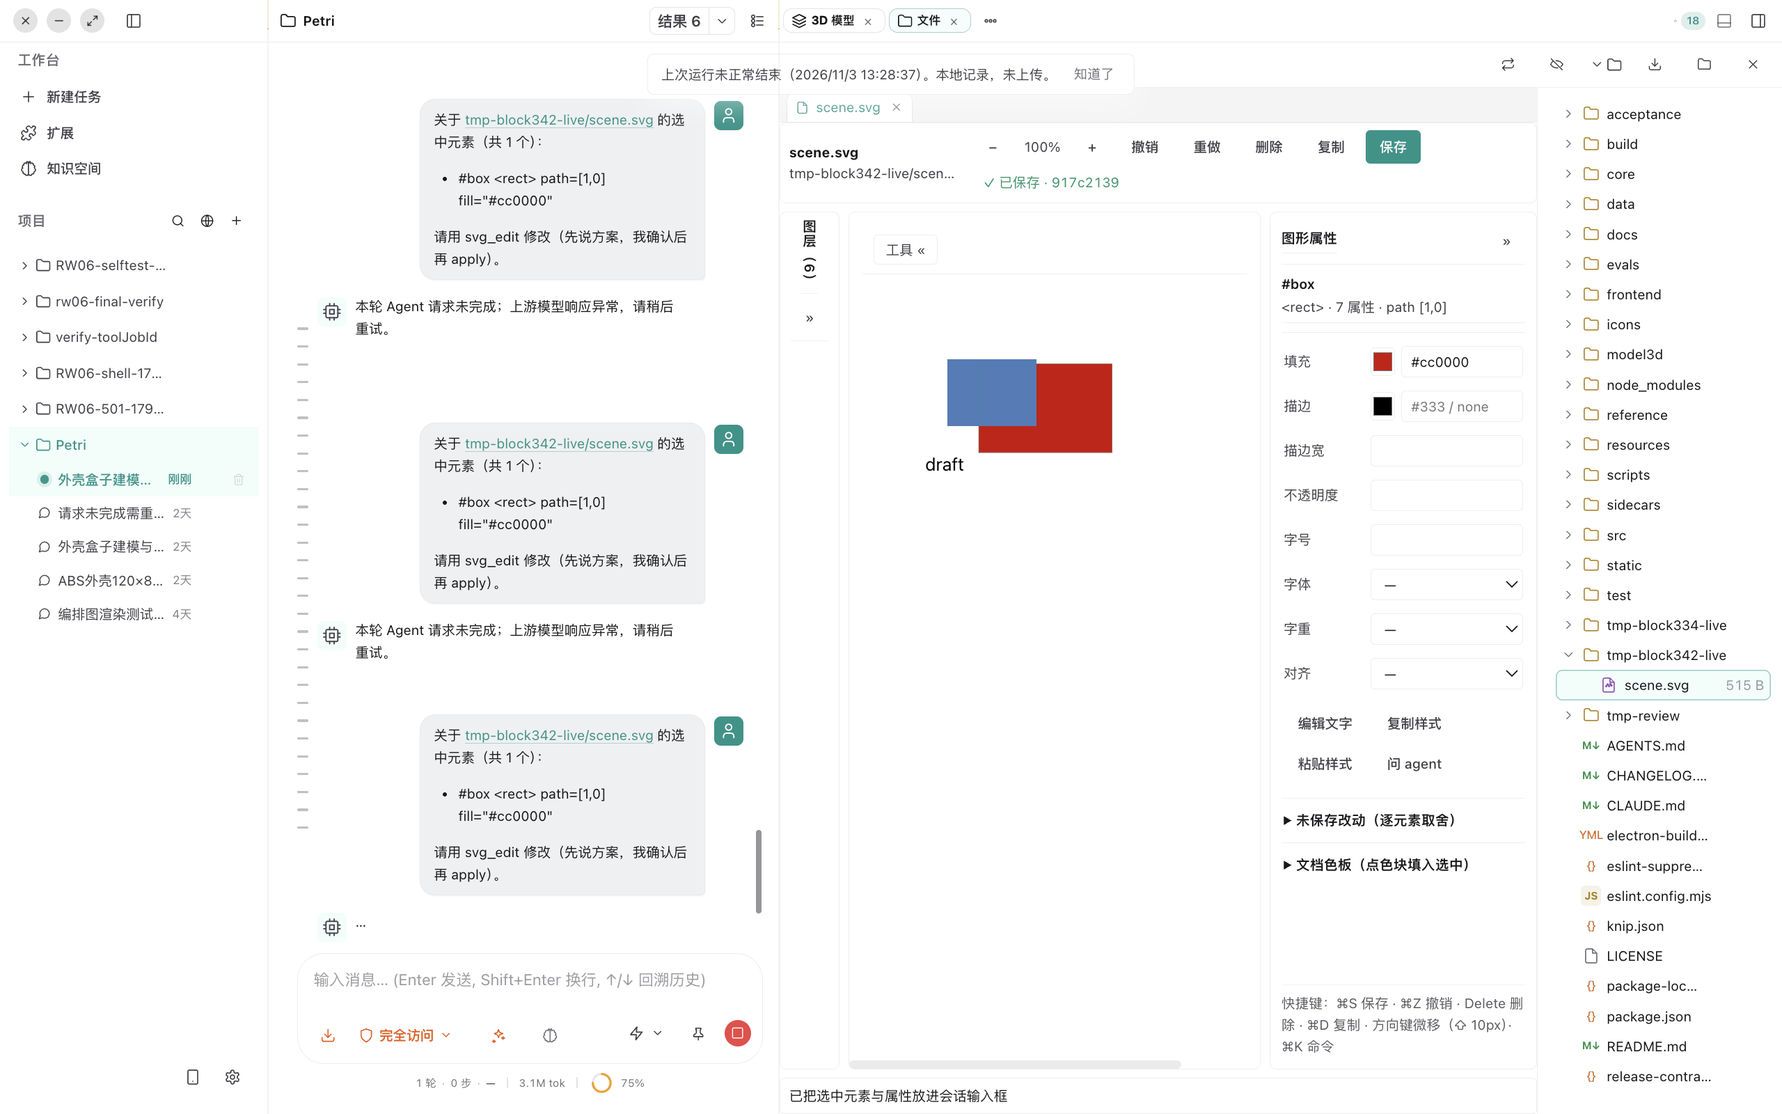
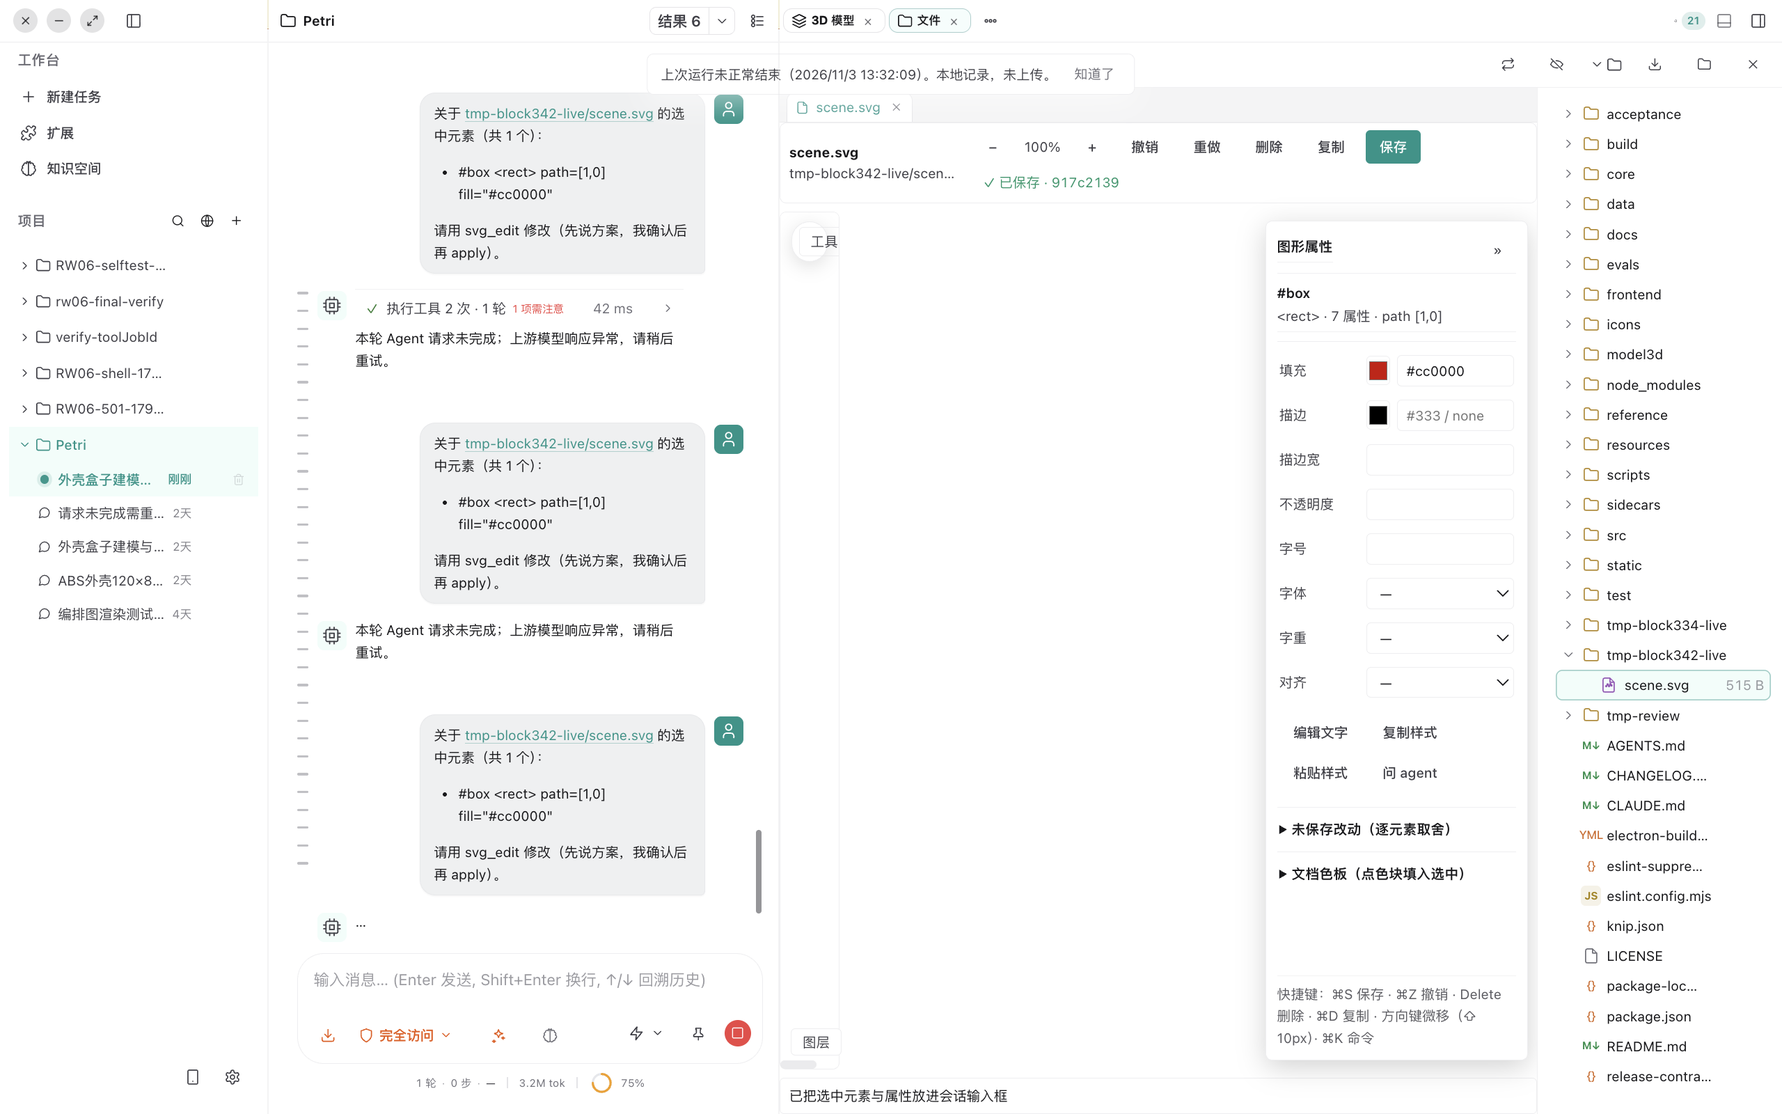
style(block-342): 抽屉式面板 + 按需展示（截图反馈：竖排窄条占位/tooltip 干扰）
面板零占位：画布独占整宽；面板改 absolute 覆盖式抽屉（236px/圆角/阴影，收起 display:none），不再挤压画布

触发改画布角落文字胶囊（左下图层/右上属性/左上工具）+ 工具条改浮条不占行高（nowrap 防竖排）

脱敏提示移出折叠区常驻；视图清空 <title> 文本抑制原生 tooltip（真值不动）

实机 28/28 + 截图过目两轮；抓真 flow 样本自删竞态（ENOENT）→ 留盘 + impact-map 忽略；UI-667 verified

diff --git a/frontend/src/components/svg-editor/SvgEditorViewer.module.css b/frontend/src/components/svg-editor/SvgEditorViewer.module.css
@@ -770,3 +770,106 @@
   min-width: 120px;
   justify-self: stretch;
 }
+
+/* ============================================================
+   抽屉式面板（用户截图反馈：竖排窄条占位且难读）
+   —— 收起态零占位（画布独占整宽），展开=覆盖式抽屉（不挤压画布），
+      触发/收起用画布角落的小胶囊按钮，无学习成本：点「图层/属性」就有，再点就收。
+   ============================================================ */
+.body {
+  position: relative;
+  grid-template-columns: minmax(0, 1fr);
+  gap: 0;
+}
+
+.layers,
+.inspector {
+  position: absolute;
+  top: 8px;
+  bottom: 8px;
+  width: 236px;
+  z-index: 5;
+  background: var(--petri-bg-surface);
+  border-radius: var(--petri-radius-md);
+  box-shadow: 0 6px 24px rgb(0 0 0 / 18%);
+}
+
+.layers {
+  left: 8px;
+}
+
+.inspector {
+  right: 8px;
+}
+
+/* 收起即完全退场（不占列宽、不留竖排文字） */
+.layers[data-open='0'],
+.inspector[data-open='0'] {
+  display: none;
+}
+
+.railToggle {
+  position: absolute;
+  top: 12px;
+  z-index: 6;
+  padding: 3px 10px;
+  border: 1px solid var(--petri-border-card);
+  border-radius: var(--petri-radius-pill);
+  background: var(--petri-bg-surface);
+  color: var(--petri-text-secondary);
+  font-size: var(--petri-font-size-body);
+  cursor: pointer;
+  transition: background-color var(--petri-duration-fast) var(--petri-ease-standard),
+    color var(--petri-duration-fast) var(--petri-ease-standard),
+    border-color var(--petri-duration-fast) var(--petri-ease-standard);
+}
+
+.railToggle:hover {
+  background: var(--petri-hover);
+  color: var(--petri-text);
+  border-color: var(--petri-accent-border);
+}
+
+/* 工具条改为画布内浮条：默认只露「工具 ▾」，点开就地展开一排（不再常驻一行高度） */
+.toolbar {
+  position: absolute;
+  top: 8px;
+  left: 50%;
+  transform: translateX(-50%);
+  z-index: 6;
+  border: 1px solid var(--petri-border-card);
+  border-radius: var(--petri-radius-pill);
+  background: var(--petri-bg-surface);
+  padding: 4px 6px;
+  gap: 4px;
+  box-shadow: 0 4px 16px rgb(0 0 0 / 12%);
+}
+
+.stage {
+  position: relative;
+  padding: 44px 12px 12px;
+}
+
+/* 定位修正（截图过目）：工具条不换行、贴左上；图层胶囊贴左下，属性胶囊贴右上 */
+.toolbar {
+  left: 10px;
+  top: 8px;
+  transform: none;
+  width: max-content;
+  max-width: calc(100% - 20px);
+  white-space: nowrap;
+  flex-wrap: nowrap;
+}
+
+.stage {
+  padding: 56px 12px 12px;
+}
+
+.railToggle[data-action='expand-layers'] {
+  top: auto;
+  bottom: 12px;
+}
+
+.railToggle[data-action='expand-inspector'] {
+  top: 12px;
+}

diff --git a/frontend/src/components/svg-editor/SvgEditorViewer.tsx b/frontend/src/components/svg-editor/SvgEditorViewer.tsx
@@ -701,6 +701,16 @@ export function SvgEditorViewer({ projectId, filePath, name, active = true }: Sv
 
       {state.status === 'ready' ? (
         <div className={styles.body} data-layers={layersOpen ? '1' : '0'} data-inspector={inspectorOpen ? '1' : '0'}>
+          {!layersOpen ? (
+            <button type="button" className={styles.railToggle} data-action="expand-layers" style={{ left: 10 }} title="展开图层">
+              图层
+            </button>
+          ) : null}
+          {!inspectorOpen ? (
+            <button type="button" className={styles.railToggle} data-action="expand-inspector" style={{ right: 10 }} title="展开图形属性">
+              属性
+            </button>
+          ) : null}
           <aside className={styles.layers} data-testid="svg-editor-layers" data-open={layersOpen ? '1' : '0'}>
             <div className={styles.layersHead}>
               <span className={styles.panelTitle}>图层（{state.inspect.total}）</span>
@@ -733,14 +743,15 @@ export function SvgEditorViewer({ projectId, filePath, name, active = true }: Sv
                 );
               })}
             </ul>
-            {layersOpen && state.removed > 0 ? (
+
+          </aside>
+
+          <div className={styles.stage} onWheel={handleWheel}>
+            {state.removed > 0 ? (
               <div className={styles.warn} data-testid="svg-editor-sanitized">
                 视图已脱敏 {state.removed} 处（script/事件属性/危险链接）；真值未被删除。
               </div>
             ) : null}
-          </aside>
-
-          <div className={styles.stage} onWheel={handleWheel}>
             <div className={styles.toolbar} data-testid="svg-editor-toolbar">
               <button
                 type="button"

diff --git a/frontend/src/components/svg-editor/svgEditorModel.ts b/frontend/src/components/svg-editor/svgEditorModel.ts
@@ -177,6 +177,8 @@ export function sanitizeSvgForView(text: string): SanitizedView {
   if (parserError) return { ok: false, error: 'svg_parse_error', removed: 0 };
 
   let removed = 0;
+  // 视图里清空 <title> 文本：否则 hover 会弹原生 tooltip 盖住画布（真值不动，op 不涉及 title）
+  root.querySelectorAll('title').forEach((el) => { el.textContent = ''; });
   const kill: Element[] = [];
   // root 自身也要清（onload 常挂在 <svg> 上）
   const all: Element[] = [root, ...Array.from(root.querySelectorAll('*'))];

diff --git a/docs/AUDIT-LOG.md b/docs/AUDIT-LOG.md
@@ -1,4 +1,5 @@
 # 审计广播台 (AUDIT-LOG)
+最后更新：2026-11-03（✅ **BLOCK-342 抽屉式面板 + 按需展示（截图反馈批；实机 28/28）**：面板零占位（画布独占整宽）+ 覆盖式抽屉（236px/圆角/阴影，收起 display:none）；触发=画布角落文字胶囊（左下图层/右上属性/左上工具），点开即用再点即收；工具条改浮条不占行高；脱敏提示移出折叠区常驻；视图清空 `<title>` 抑制原生 tooltip（真值不动）。抓真一处 flow 竞态（样本自删致连续两跑 ENOENT→留盘+impact-map 忽略）。UI-667 verified。G0 开发期常态 · 不外推 packaged/Provider/GA。）
 最后更新：2026-11-03（✅ **BLOCK-342 产品级视觉精修（编辑器面板；theme 17/17 + 实机 28/28）**：字号统一 body（小字号棘轮禁 xs/sm），层级靠字重 600 + 字距 + 文字色三级；间距 10/8/6 节奏 + divider；属性行定宽标签列、控件等高并强制拉伸；圆角 radius 阶梯；hover `--petri-hover` / 激活 accent 底+边；过渡统一 duration-fast + ease-standard（motion token，reduced-motion 兜底）；sha 等宽数字、path mono、画布留白 12、收起列宽 54。截图过目后补两处（控件等宽、画布留白）。UI-666 verified。G0 开发期常态 · 不外推 packaged/Provider/GA。）
 最后更新：2026-11-03（✅ **BLOCK-342 折叠默认态修正（用户第二轮裁决）+ 图层栏可折叠（实机 28/28）**：默认**全收起**——工具栏只剩「工具 «」、图层栏与图形属性各收成 46px 竖排标题条（writing-mode）、色板/改动 details 收起，打开文件即最大画布；点 `»` 恢复 200/240px，**选中元素时属性栏自动展开**；grid 列宽按展开态组合切换。实机 `V2d` 断言 layers/inspector/toolGroup 三处 `data-open=0` + 展开按钮在场，28/28 allPass；契约 26/26 + lint 0 error。UI-665 已更新。G0 开发期常态 · 不外推 packaged/Provider/GA。）
 最后更新：2026-11-03（✅ **BLOCK-342 交互设计批：分区折叠 + 预览/确认状态区分（实机 28/28）**：工具栏「工具 »」可收；「图形属性」默认展开、右栏 `»` 整栏收起（画布变宽）；「文档色板」「未保存改动」默认折叠（details）。状态条三态=黄「● 未保存 N 项改动 · 实时预览中，⌘S 确认写盘」/灰「保存中…」/绿「✓ 已保存 · sha」——实时预览只改活视图，保存才提交（before-hash 冲突检测），避免未确认堆积。契约 26/26 + theme 17/17 + 实机 28/28（V2d/V9b3/V9d）；UI-665 verified。G0 开发期常态 · 不外推 packaged/Provider/GA。）
@@ -6,7 +7,6 @@
 最后更新：2026-11-03（🟡 **BLOCK-342 W4 逐元素取舍：第二轮尝试仍空清单（如实收口，UI-663 保持 in_progress）**：把基线从「加载快照」改为「现读磁盘（cache:no-store）+ 重新脱敏」并对比视图序列化——实机仍空 → 定位于 `diffElements(磁盘文本, 视图序列化)` 的**输入可比性**（非基线来源）。两轮实机腿均已从 flow 回退（未验不计入通过），主链 24/24 保持绿。**下一步方向已定**=清单改由 `pendingOps` 生成（op 列表本就是语义 diff，避开反序列化），撤销=移除该组 op 后从磁盘重建视图再按序应用剩余。G0 开发期常态 · 不外推 packaged/Provider/GA。）
 最后更新：2026-11-03（🟡 **BLOCK-342 W4 reopen 第一刀：逐元素取舍（in_progress）**：后端 propose 增 `previewMarkup`（内存返回不落盘）；前端 `svgProposal` 逐元素 diff 四类差异 + 反向白名单 op（被删元素如实拒绝）；UI「未保存改动」区块（列出/单项撤销/全部撤销）。代码面契约 6/6 + tsc 0 + lint 0；**实机链「列出改动」返回空清单未定位** → UI-663 in_progress，不冒 verified，实机腿已从 flow 回退。主链实机仍 24/24（绘制腿加重试加固：离屏首帧时序）。G0 开发期常态 · 不外推 packaged/Provider/GA。）
 最后更新：2026-11-03（✅ **BLOCK-342 W2-W4 交付切片完成（整链实机 24/24 allPass）**：W2 属性面板 8 类/文档色板/批量套样式/样式复制粘贴/多行 tspan 行内文字；W3 绘制矩形·椭圆·直线·文字（拖拽 → 白名单 insert）；W4 选区 → 唯一 `copilotAsk` 通道（结构化引用含 path/属性，指路 svg_edit 先说方案）。**实机抓真第二处真缺陷并修**=绘制坐标用 `getScreenCTM()` 在离屏窗口返回 null → 绘制静默失效，改 `boundingRect + viewBox` 比例换算。证据 `acceptance/block-342/`（24/24 + png，实例与样本跑完即清理）。UI-662 verified。**reopen 逐项留档**=选区浮动条/渐变/路径节点·钢笔/图片嵌入/Inkscape 协处理器/提案幽灵与逐元素接受/版本对比·历史面板/渲染回验（plan §8）。G0 开发期常态 · 不外推 packaged/Provider/GA。）
-最后更新：2026-11-03（✅ **BLOCK-342 W1 COMPLETED（P1-P5 全绿；实机 15/15）**：P4 隔离栈离屏实机 `block342-svg-editor-live` **15/15 allPass**（挂载/点选/拖拽 translate(48 24)/保存落盘 sha 变化+局部性/重开零改动零 diff/旧 sha 提案 409 `svg_hash_mismatch`），证据 `acceptance/block-342/`（JSON+png，跑完即终止实例、样本自动清理）；**实机抓真一处真缺陷已修**=文件加载白名单只认 text/csv/json/markdown，`svg-editor` 漏判致 `status='unsupported'` 落二进制卡、编辑器结构性不可达。UI-661 **verified**（dev Electron 边界内）。母计划仍 active（W2/W3/W4 待启动）。此前的 P1-P3 记录：：①span 引擎 `helpers/svg-ops.js` 契约 **14/14**（首轮 13 红→绿），终审根修四处真缺陷=setAttrRaw 替换区间 off-by-one（闭引号重复致改写后不可解析）/ 容器 `textOnly` 未置 false（set_text 会静默吞子结构）/ 节点缺 path·id / insert 安全校验晚于形状；另加固 script·style raw-text 跳过 + sanitize 两级剥离。②工具面 `svg_inspect`/`svg_edit` 契约 **8/8**（propose/apply、`before_sha_required`、`svg_hash_mismatch` 不覆盖人的修正、零改动不写盘、审计快照 `.petri/svg-revisions/`）+ REST `POST /api/svg/{inspect,edit}`（与 agent 同一套实现）；工具计数 112→**114**（四处 pin + fixture + model-surface 有意增长留痕）。③编辑器前端（画布/选择/拖拽/图层树/撤销/保存/Cmd+K）+ viewerRegistry `svg-editor` 分派（plot svg 仍图片）+ WorkspaceFilePreview 挂载；前端定向 57/57 + theme 17/17 + tsc 0 + lint 0 error。**顺带清存量**=model-surface `--force` 契约漂移（注释声明未实现）+ 前端动词表缺 read_video/godot×2/blend_ops 四条（HEAD 即红）。UI-661 in_progress（实机未跑不冒 verified）。**closeout 十三门 + skills:check 报级全 PASS**（`ca535f18` 主体；收口抓真三处已修：types 的 mock 泛型 / knip 的 11 处死代码保留面 / fixture 与前端动词表脱节）。G0 开发期常态 · 不外推 packaged/Provider/GA。）
 
 
 

diff --git a/docs/archive/checkpoints/audit-log-through-2026-11-03.md b/docs/archive/checkpoints/audit-log-through-2026-11-03.md
@@ -36,3 +36,6 @@
 
 <!-- audit-log-compact.mjs 追加 @ 2026-11-03T05:33:51.907Z -->
 最后更新：2026-11-03（🔵 **BLOCK-342 SVG 编辑器启动登记（active；用户裁决「更丝滑的体验 路线A」→「BLOCK-341 应该已经收口了 继续」=发令，对标 340「继续推进」先例；341 已当日收口 completed）**：受治理 SVG 编辑器母计划 W1-W4 波次串行——人与 agent 共用同一套操作词汇表改同一份单真值文件。W1 执行范围=span 改写引擎（零操作零 diff/改动局部性/hash 冲突 `svg_hash_mismatch`/安全校验/脱敏，零新依赖，子 Agent 委派实现主 Agent 终审）+ `svg_edit`/`svg_inspect` 工具（白名单 op/propose-apply/修订快照）+ 编辑器内核（画布/选择/变换吸附/图层树/撤销/快捷键，viewerRegistry 登记）+ 隔离栈离屏实机。红线=零新依赖/不建第二真值/不复刻 Inkscape GUI/位图像素编辑另立 reopen；W2-W4 启动时在本 plan 内细化。W1 分 P 阶段多会话推进。G0 开发期常态 · 不外推 packaged/Provider/GA。）
+
+<!-- audit-log-compact.mjs 追加 @ 2026-11-03T05:39:47.589Z -->
+最后更新：2026-11-03（✅ **BLOCK-342 W1 COMPLETED（P1-P5 全绿；实机 15/15）**：P4 隔离栈离屏实机 `block342-svg-editor-live` **15/15 allPass**（挂载/点选/拖拽 translate(48 24)/保存落盘 sha 变化+局部性/重开零改动零 diff/旧 sha 提案 409 `svg_hash_mismatch`），证据 `acceptance/block-342/`（JSON+png，跑完即终止实例、样本自动清理）；**实机抓真一处真缺陷已修**=文件加载白名单只认 text/csv/json/markdown，`svg-editor` 漏判致 `status='unsupported'` 落二进制卡、编辑器结构性不可达。UI-661 **verified**（dev Electron 边界内）。母计划仍 active（W2/W3/W4 待启动）。此前的 P1-P3 记录：：①span 引擎 `helpers/svg-ops.js` 契约 **14/14**（首轮 13 红→绿），终审根修四处真缺陷=setAttrRaw 替换区间 off-by-one（闭引号重复致改写后不可解析）/ 容器 `textOnly` 未置 false（set_text 会静默吞子结构）/ 节点缺 path·id / insert 安全校验晚于形状；另加固 script·style raw-text 跳过 + sanitize 两级剥离。②工具面 `svg_inspect`/`svg_edit` 契约 **8/8**（propose/apply、`before_sha_required`、`svg_hash_mismatch` 不覆盖人的修正、零改动不写盘、审计快照 `.petri/svg-revisions/`）+ REST `POST /api/svg/{inspect,edit}`（与 agent 同一套实现）；工具计数 112→**114**（四处 pin + fixture + model-surface 有意增长留痕）。③编辑器前端（画布/选择/拖拽/图层树/撤销/保存/Cmd+K）+ viewerRegistry `svg-editor` 分派（plot svg 仍图片）+ WorkspaceFilePreview 挂载；前端定向 57/57 + theme 17/17 + tsc 0 + lint 0 error。**顺带清存量**=model-surface `--force` 契约漂移（注释声明未实现）+ 前端动词表缺 read_video/godot×2/blend_ops 四条（HEAD 即红）。UI-661 in_progress（实机未跑不冒 verified）。**closeout 十三门 + skills:check 报级全 PASS**（`ca535f18` 主体；收口抓真三处已修：types 的 mock 泛型 / knip 的 11 处死代码保留面 / fixture 与前端动词表脱节）。G0 开发期常态 · 不外推 packaged/Provider/GA。）

diff --git a/docs/ui-productization-audit.md b/docs/ui-productization-audit.md
@@ -1,5 +1,12 @@
 # Petri Desktop UI 产品化审计台账
 
+## UI-667: SVG 编辑器抽屉式面板 + 按需展示（BLOCK-342 截图反馈批；2026-11-03 **verified（dev Electron 边界内；实机 28/28 + 截图过目两轮）**）
+
+- **变化面**：①左右面板**零占位**——画布独占整宽，面板改 `position:absolute` 覆盖式抽屉（236px、圆角、阴影、`data-open=0` 完全退场）；②**画布角落胶囊**触发（左下「图层」/右上「属性」/左上「工具」），点开即用、再点即收；③工具条改浮条默认只露「工具」，点开就地展开一排（`nowrap` 防竖排）；④脱敏提示移出折叠区常驻画布顶部；⑤视图清空 `<title>` 文本抑制原生 tooltip（真值不动）。
+- **为什么这样设计**：截图暴露的两个问题不是"面板丑"而是"占位与噪声"——竖排窄条看不懂还占 46px，工具条常驻一行压画布，`<title>` tooltip 遮内容。改成覆盖式抽屉后，默认态**没有任何面板占位**，触发只靠带文字的胶囊（不用猜图标含义），符合「无需学习即可上手」。
+- **验证**：theme 17/17；契约 26/26（脱敏提示改为常驻后测试仍绿）；实机 28/28；截图过目两轮（修工具条换行、胶囊定位）。
+- **实机抓真**：flow 样本目录在 finally 自删 → 连续两跑互删报 ENOENT；改为留盘 + `impact-map` 忽略规则。
+
 ## UI-666: SVG 编辑器产品级视觉精修（字号层级/间距节奏/圆角配色/过渡统一；BLOCK-342；2026-11-03 **verified（dev Electron 边界内；截图过目 + 实机 28/28）**）
 
 - **变化面**：字号全部归 `--petri-font-size-body`，层级靠字重 600 + 字距 + 文字色三级（小字号棘轮禁用 xs/sm）；面板 padding 10 / gap 8 / 标题底 6 + divider；属性行 `68px | 1fr` 标签列对齐、控件 min-height 28 且下拉强制拉伸；圆角统一 radius-sm/md；hover 用 `--petri-hover`、激活用 accent 底色+边；色块 hover scale；按钮/输入/图层行/色块/命令项统一 `--petri-duration-fast` + `--petri-ease-standard`（motion token，reduced-motion 全局兜底）；sha 等宽数字；path 差异 mono；画布留白 12px；收起列宽 54px。

diff --git a/docs/block-342-svg-editor-plan.md b/docs/block-342-svg-editor-plan.md
@@ -144,3 +144,15 @@ W1 收口门禁清单（收口时逐项对账）：
 - **过渡**：按钮/输入/下拉/图层行/色块/命令项统一 `var(--petri-duration-fast) var(--petri-ease-standard)`；全局 reduced-motion 兜底生效（不新增字面量时长——motion 棘轮会咬）。
 - **细节**：sha 用 `tabular-nums` 不跳格；path/属性差异用 `--petri-font-mono`；画布留白 12px；收起列宽 46→54px 让竖排标题整行可读。
 - **门禁**：`theme-token-contract` **17/17**（含小字号棘轮、motion 棘轮、1px 语义边、按钮清单四条均绿）；实机 28/28 无功能回归；截图过目（`acceptance/block-342/*.png`）后补了两处（控件等宽、画布留白）。
+
+
+## 13. 抽屉式面板与按需展示（2026-11-03 截图反馈批）
+
+用户截图指出：竖排窄条（图层/图形属性）占位且难读、工具条常驻一行、`<title>` 弹原生 tooltip 干扰。改为**零占位 + 按需覆盖**：
+
+- **左右面板零占位**：`.body` 单列，画布独占整宽；面板改为 `position:absolute` **覆盖式抽屉**（236px + 阴影 + 圆角），展开不挤压画布、收起 `display:none` 完全退场。
+- **触发靠画布角落小胶囊**：左下「图层」、右上「属性」，点开即抽屉，抽屉头部 `»` 收起——**无需学习**：看得见名字、点一下就有、再点就收。
+- **工具条改浮条**：默认只露「工具」胶囊（左上），点开就地展开一排工具（不再常驻一行高度）；`white-space:nowrap` 防竖排堆叠。
+- **脱敏提示移出可折叠区**：安全信息常驻画布顶部（`视图已脱敏 N 处`），不再被图层折叠藏起来。
+- **抑制原生 tooltip**：视图渲染时清空 `<title>` 文本（真值不动、op 不涉及 title），hover 不再弹出盖住画布的文件标题。
+- **实机**：28/28 allPass（截图过目两轮：修工具条换行与胶囊定位；另抓真一处 flow 竞态——样本目录在 finally 自删导致连续两跑互删 ENOENT，改为留盘 + impact-map 忽略规则）。
